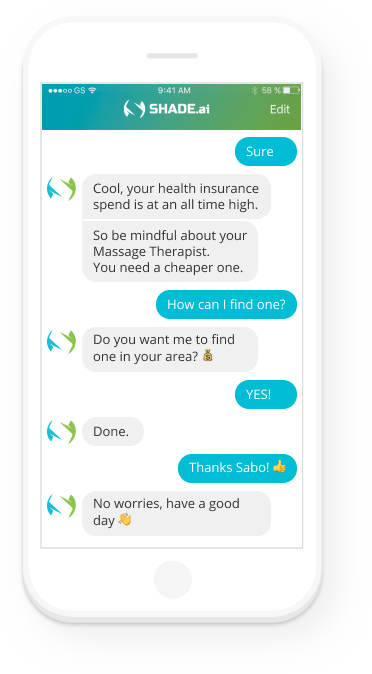
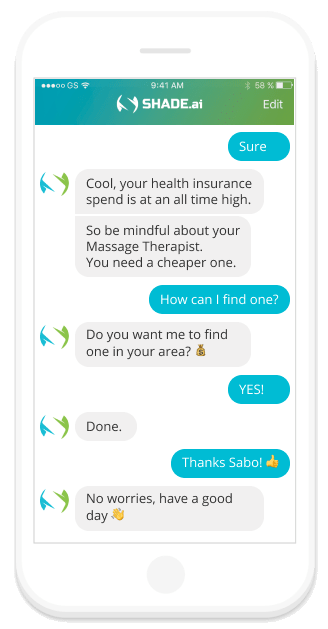
updated features for mobile

diff --git a/index.html b/index.html
@@ -364,15 +364,15 @@
         }
 
         .bot-video {
-            width: 222px;
-            height: 395px;
+            width: 242px;
+            height: 420px;
             position: absolute;
             top: 50%;
             left: 50%;
             transform: translate(-50%, -50%);
             z-index: 3;
-            margin-top: -18px;
-            margin-left: -13px;
+            margin-top: -3px;
+            margin-left: 0;
         }
 
         .slide-1 {
@@ -703,6 +703,14 @@
                 font-size: 18px;
             }
 
+            .bot-video {
+                width: 210px;
+                height: 368px;
+            }
+            .iva-description-img {
+                height: 500px;
+            }
+
             .bottom-triangle:before, .bottom-triangle.inverted:before {
                 border-top-width: 10vh;
             }
@@ -820,7 +828,8 @@
         <div class="top-content"><h2>Features</h2>
             <p> Sabo is Siri for your health and life insurance needs.</p></div>
         <div class="content col-xs-12">
-            <div id="featuresCarousel" class="carousel slide hidden-xs" data-ride="carousel" data-interval="false">
+            <div id="featuresCarousel" class="carousel slide" data-ride="carousel" data-interval="false">
+
                 <div class="carousel-inner">
                     <div class="item active">
                         <div class="iva-description-img video">
@@ -850,9 +859,15 @@
                         </div>
                     </div>
                 </div>
+
+                <ol class="carousel-indicators">
+                    <li data-target="#featuresCarousel" data-slide-to="0" class="active"></li>
+                    <li data-target="#featuresCarousel" data-slide-to="1"></li>
+                    <li data-target="#featuresCarousel" data-slide-to="2"></li>
+                </ol>
             </div>
 
-            <div>
+            <div class="hidden-xs">
                 <ol class="features-carousel-indicators">
                     <li data-slide-to="0" class="active">
                         <h3>Smart Insights</h3>
@@ -971,8 +986,8 @@
         </div>
     </div>
     <div class="rights-reserved col-xs-12">
-        <p>Copyright Shade.ai Inc. 2018. All rights reserved.</p>
-        <p> © 2018 Shade.ai Shade.ai Inc. is registered and incorporated in BC, Canada and Delaware, U.S.A</p>
+        <p>Copyright Shade.ai Inc. 2018. All rights reserved. © 2018 Shade.ai.</p>
+        <p>Shade.ai Inc. is registered and incorporated in BC, Canada, and Delaware, U.S.A.</p>
     </div>
 </section>
 <link href="https://fonts.googleapis.com/css?family=Kanit:700" rel="stylesheet">

diff --git a/css/style.css b/css/style.css
@@ -289,6 +289,11 @@ a:active {
     transform: scale(1);
 }
 
+#featuresCarousel .carousel-indicators {
+    display: none;
+    left: unset;
+}
+
 .slide-3 {
     padding: 0 0 75px;
 }
@@ -965,9 +970,36 @@ form[name="contactForm"] input::placeholder {
         padding-right: 30px;
     }
 
-    /*.slide-3 .iva-description-img img {*/
-    /*margin-left: -30px;*/
-    /*}*/
+    #featuresCarousel {
+        display: flex;
+        flex-direction: column;
+        align-items: center;
+        margin-top: 12px;
+    }
+
+    #featuresCarousel .carousel-indicators {
+        position: relative;
+        display: flex;
+        justify-content: center;
+        margin-left: unset;
+    }
+
+    #featuresCarousel .carousel-indicators li {
+        margin-left: 4px;
+        margin-right: 4px;
+    }
+
+    #featuresCarousel .iva-description-img {
+        background-image: none;
+        height: 400px;
+    }
+
+    #featuresCarousel .iva-description-img > video {
+        box-shadow: 0 0 10px rgba(0, 0, 0, 0.2);
+        width: 225px !important;
+        height: 390px !important;
+    }
+
     .slide-6 .container-inner {
         display: block;
     }
@@ -995,6 +1027,9 @@ form[name="contactForm"] input::placeholder {
         font-size: 15px !important;
     }
 
+    .slide-2 {
+        padding-top: 30px;
+    }
 
     .slide-2 .background .rect {
         height: 52%;
@@ -1004,7 +1039,7 @@ form[name="contactForm"] input::placeholder {
         min-height: 800px !important;
     }
     .slide-2 ol {
-        margin: 0;
+        margin: 20px 0 0 0;
     }
 
     .slide-3 {
@@ -1013,7 +1048,7 @@ form[name="contactForm"] input::placeholder {
     }
 
     .slide-3 .content {
-        margin: -160px auto 0;
+        margin: -100px auto 0;
     }
 
     .slide-3 .introduction-msg {
@@ -1061,7 +1096,7 @@ form[name="contactForm"] input::placeholder {
     }
 
     .slide-3 .content {
-        margin-top: -220px;
+        margin-top: -160px;
     }
 
     .slide-3 .introduction-msg {
